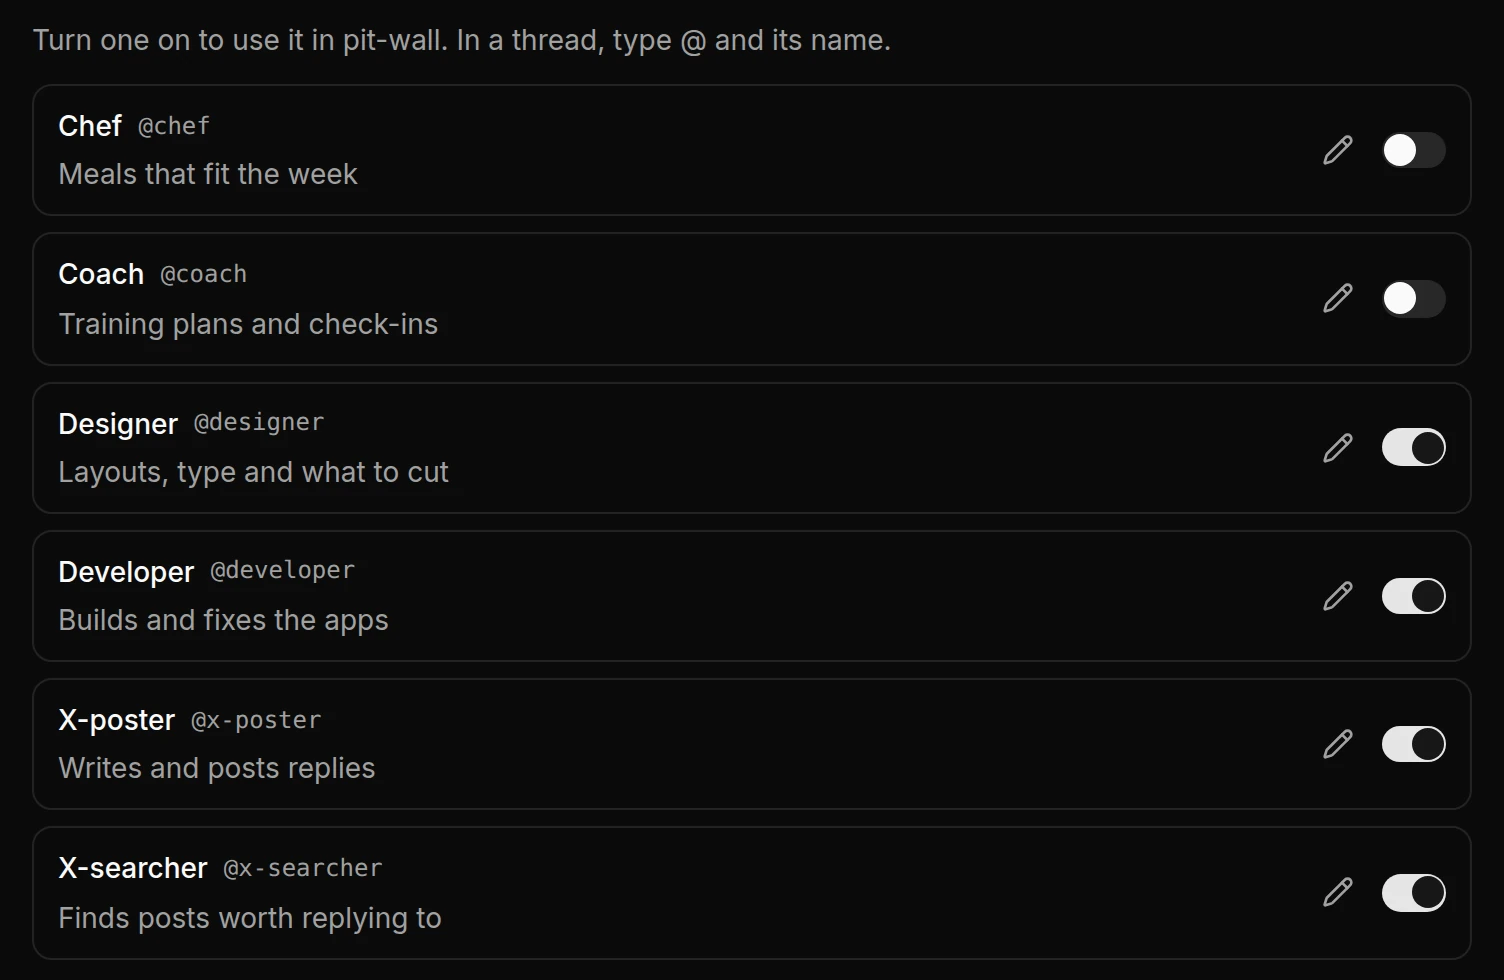
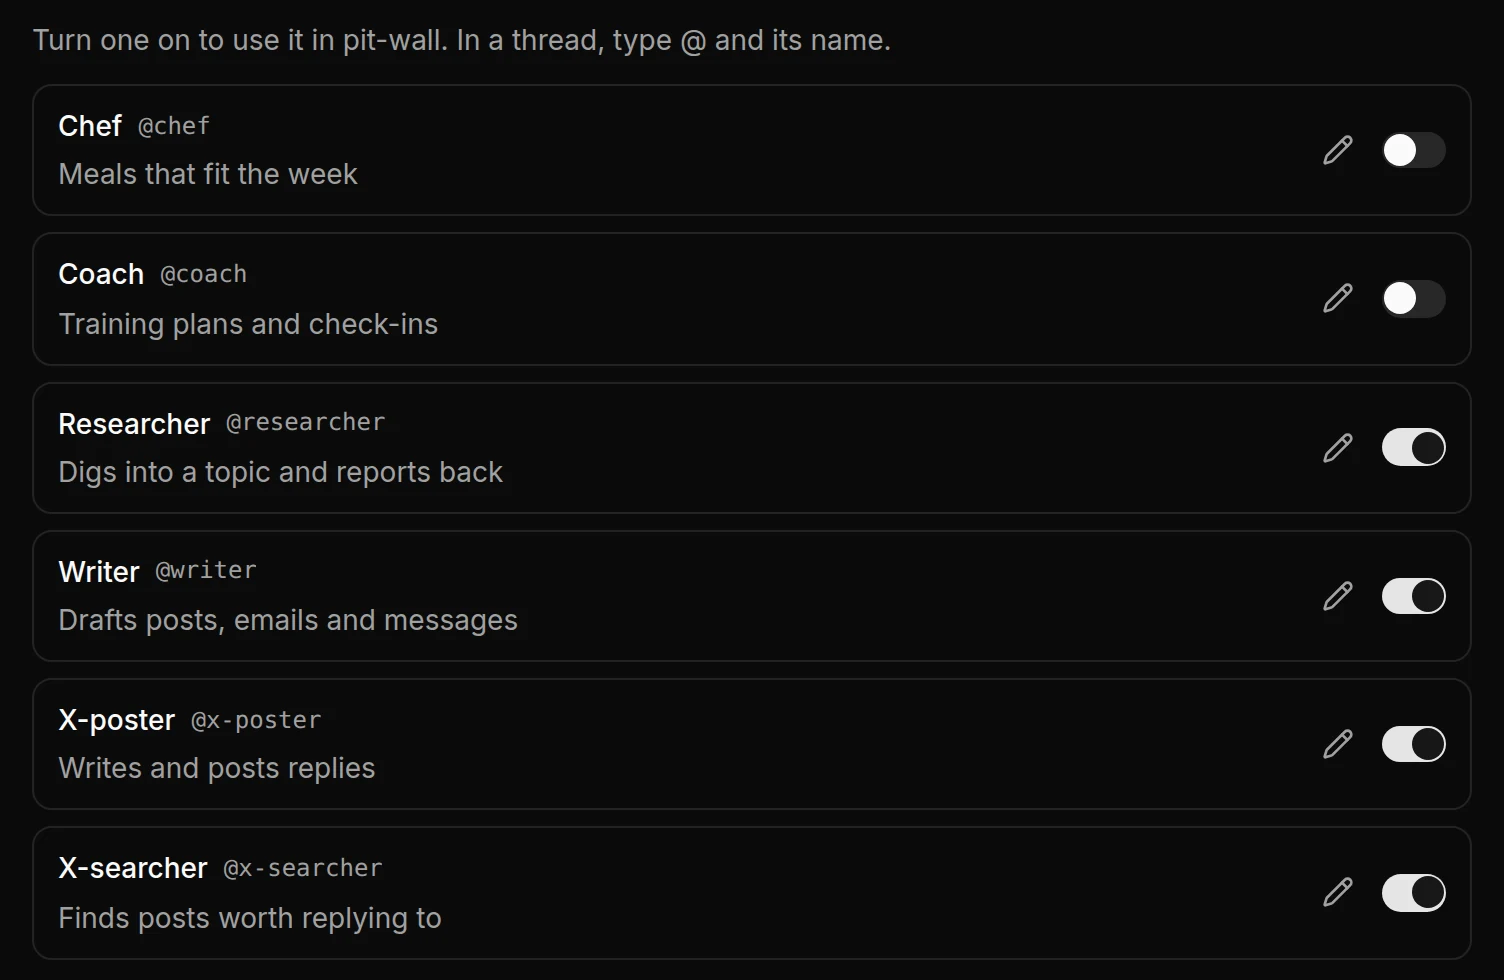
Show non-coding uses on the website

Changed region(s): [[0.0312, 0.551, 0.3438, 0.6429], [0.0312, 0.398, 0.3438, 0.4898]]

diff --git a/site/index.html b/site/index.html
@@ -31,7 +31,7 @@
     <div class="grid-bg" aria-hidden="true"></div>
     <div class="wrap hero-inner">
       <h1>An organizer for Hermes.</h1>
-      <p class="lede">Made for entrepreneurs and solopreneurs who run several projects.</p>
+      <p class="lede">Made for entrepreneurs and solopreneurs to manage side projects, outreach, research, ideas and routines.</p>
       <div class="cta">
         <a class="btn primary" href="https://github.com/plusminushalf/kitaab/releases/latest">
           <svg viewBox="0 0 24 24" width="16" height="16" aria-hidden="true"><path fill="currentColor" d="M16.37 12.6c-.02-2.2 1.8-3.26 1.88-3.31-1.02-1.5-2.62-1.7-3.19-1.72-1.36-.14-2.65.8-3.34.8-.69 0-1.75-.78-2.88-.76-1.48.02-2.85.86-3.61 2.19-1.54 2.67-.39 6.63 1.11 8.8.73 1.06 1.6 2.25 2.75 2.21 1.1-.04 1.52-.71 2.85-.71 1.33 0 1.71.71 2.88.69 1.19-.02 1.94-1.08 2.67-2.15.84-1.23 1.19-2.42 1.21-2.48-.03-.01-2.32-.89-2.33-3.56zM14.17 6.13c.61-.74 1.02-1.76.91-2.78-.88.04-1.94.59-2.57 1.32-.56.65-1.06 1.69-.93 2.69.98.08 1.98-.5 2.59-1.23z"/></svg>
@@ -47,8 +47,42 @@
     <div class="wrap">
       <figure class="window">
         <span class="lights" aria-hidden="true"><i></i><i></i><i></i></span>
-        <img src="img/thread.webp" width="2560" height="1920" alt="Kitaab on the Mac, showing a thread in the pit-wall project where Designer and Developer answer in turn">
+        <img src="img/thread.webp" width="2560" height="1920" alt="Kitaab on the Mac, showing a thread in the pit-wall project where Researcher and Writer help with outreach">
       </figure>
+    </div>
+  </section>
+
+  <!-- Uses -->
+  <section class="row">
+    <div class="wrap">
+      <h2 class="center">What it&rsquo;s for.</h2>
+      <p class="lede center">I use it to grow Pitwall, an X account about Formula 1, and to look after my health.</p>
+      <div class="uses">
+        <div class="use">
+          <h3>Outreach</h3>
+          <p>Keep track of who you contacted, where, and what they said. Ask Hermes who still needs a follow-up.</p>
+        </div>
+        <div class="use">
+          <h3>Ideas</h3>
+          <p>Drop ideas into a project as they come. Hermes remembers them, so months later you can pick one up where you left it.</p>
+        </div>
+        <div class="use">
+          <h3>Research</h3>
+          <p>Ask Hermes to look into something and it reads the web for you. Each thread adds to what the project knows.</p>
+        </div>
+        <div class="use">
+          <h3>Alerts</h3>
+          <p>Have Hermes watch X, a website or an inbox on a schedule, and hear from it only when something matters.</p>
+        </div>
+        <div class="use">
+          <h3>Personal goals</h3>
+          <p>Log sleep, workouts or meals in a thread. Get a check-in every week on how it&rsquo;s going.</p>
+        </div>
+        <div class="use">
+          <h3>Quick scripts</h3>
+          <p>A scraper, a data export or a tool for one job. Hermes writes it and runs it for you.</p>
+        </div>
+      </div>
     </div>
   </section>
 
@@ -57,7 +91,7 @@
     <div class="wrap split">
       <div class="copy">
         <h2>Make a project for each thing you work on.</h2>
-        <p>Think of a project as a folder for one part of your work, like your product, a client, or a personal goal like getting fit. Everything about it goes inside, including your conversations, your files and what Hermes remembers. None of it mixes with your other projects.</p>
+        <p>Think of a project as a folder for one part of your work, like growing an X account, getting fit, or planning a trip. Everything about it goes inside, including your conversations, your files and what Hermes remembers. None of it mixes with your other projects.</p>
         <p class="how"><span>How</span>Click the project name at the top of the sidebar, then New project.</p>
       </div>
       <div class="visual">
@@ -71,7 +105,7 @@
     <div class="wrap split reverse">
       <div class="copy">
         <h2>Every conversation is a thread inside a project.</h2>
-        <p>A thread is one conversation about one thing, like fixing a bug or planning a launch. Each thread belongs to a project. You can have many threads open in a project and switch between them. Every thread knows what its project knows, so you never start from zero.</p>
+        <p>A thread is one conversation about one thing, like drafting replies to a big account or comparing two sleep trackers. Each thread belongs to a project. You can have many threads open in a project and switch between them. Every thread knows what its project knows, so you never start from zero.</p>
         <p class="how"><span>How</span>Press <kbd>&#8984;N</kbd> to start a thread.</p>
       </div>
       <div class="visual">
@@ -85,11 +119,11 @@
     <div class="wrap split">
       <div class="copy">
         <h2>Work with a team of agents, each with its own role.</h2>
-        <p>A personality is an agent with a role, like Designer, Developer or Coach. You write each one once, with its name, its job and how it should work. Then you add it to the projects where you need it. The agent knows how to do its job, and the project tells it about your work. So the same Designer can work on all your projects.</p>
+        <p>A personality is an agent with a role, like Researcher, Writer or Coach. You write each one once, with its name, its job and how it should work. Then you add it to the projects where you need it. The agent knows how to do its job, and the project tells it about your work. So the same Researcher can work on all your projects.</p>
         <p class="how"><span>How</span>In a thread, type @ and the agent's name, and it answers. You can bring several agents into one thread, and each reply shows who wrote it.</p>
       </div>
       <div class="visual">
-        <figure class="shot"><img src="img/personalities.webp" width="1504" height="980" alt="The Personalities page in Kitaab, with Designer, Developer, X-poster and X-searcher turned on for pit-wall"></figure>
+        <figure class="shot"><img src="img/personalities.webp" width="1504" height="980" alt="The Personalities page in Kitaab, with Researcher, Writer, X-poster and X-searcher turned on for pit-wall"></figure>
       </div>
     </div>
   </section>
@@ -99,8 +133,8 @@
     <div class="wrap split reverse">
       <div class="copy">
         <h2>Let Hermes do a task on a schedule.</h2>
-        <p>A routine is a task Hermes does again and again, like checking GitHub every morning or searching X every 90 minutes. You don't need to be there. After each run, Hermes writes a short report. Reply to the report and it turns into a thread, so you can ask follow-up questions.</p>
-        <p class="how"><span>How</span>Ask for one in a thread, for example &ldquo;Check my GitHub every morning at 9 and tell me what's new.&rdquo; Hermes sets it up, and it shows under Routines.</p>
+        <p>A routine is a task Hermes does again and again, like searching X every 90 minutes for posts worth a reply, or asking how you slept each morning. You don't need to be there. After each run, Hermes writes a short report. Reply to the report and it turns into a thread, so you can ask follow-up questions.</p>
+        <p class="how"><span>How</span>Ask for one in a thread, for example &ldquo;Every morning at 8, ask me how I slept and add it to my log.&rdquo; Hermes sets it up, and it shows under Routines.</p>
       </div>
       <div class="visual">
         <div class="stack">

diff --git a/site/style.css b/site/style.css
@@ -130,6 +130,12 @@ h2 {
   background: var(--panel); border: 1px solid var(--line); border-radius: var(--radius); padding: 20px;
 }
 
+/* Uses */
+.uses { display: grid; grid-template-columns: repeat(3, 1fr); gap: 16px; margin-top: 56px; }
+.use { background: var(--panel); border: 1px solid var(--line); border-radius: var(--radius); padding: 26px; }
+.use h3 { margin: 0; font-size: 18px; font-weight: 600; letter-spacing: -0.01em; }
+.use p { margin: 10px 0 0; color: var(--muted); font-size: 15.5px; }
+
 /* Server diagram */
 .diagram { display: flex; flex-direction: column; align-items: center; padding: 34px 20px; }
 .devices { display: flex; gap: 14px; }
@@ -171,6 +177,7 @@ footer { border-top: 1px solid var(--line); }
   .split, .split.even { grid-template-columns: 1fr; gap: 40px; }
   .split.reverse .copy { order: 0; }
   .row { padding-top: 96px; }
+  .uses { grid-template-columns: 1fr 1fr; }
 }
 @media (max-width: 560px) {
   .hero { padding-top: 72px; }
@@ -179,5 +186,6 @@ footer { border-top: 1px solid var(--line); }
   .nav nav a:first-child { display: none; }
   .window { margin-top: 48px; }
   .side { padding: 22px; }
+  .uses { grid-template-columns: 1fr; }
   .cta.left { flex-direction: column; align-items: flex-start; }
 }
